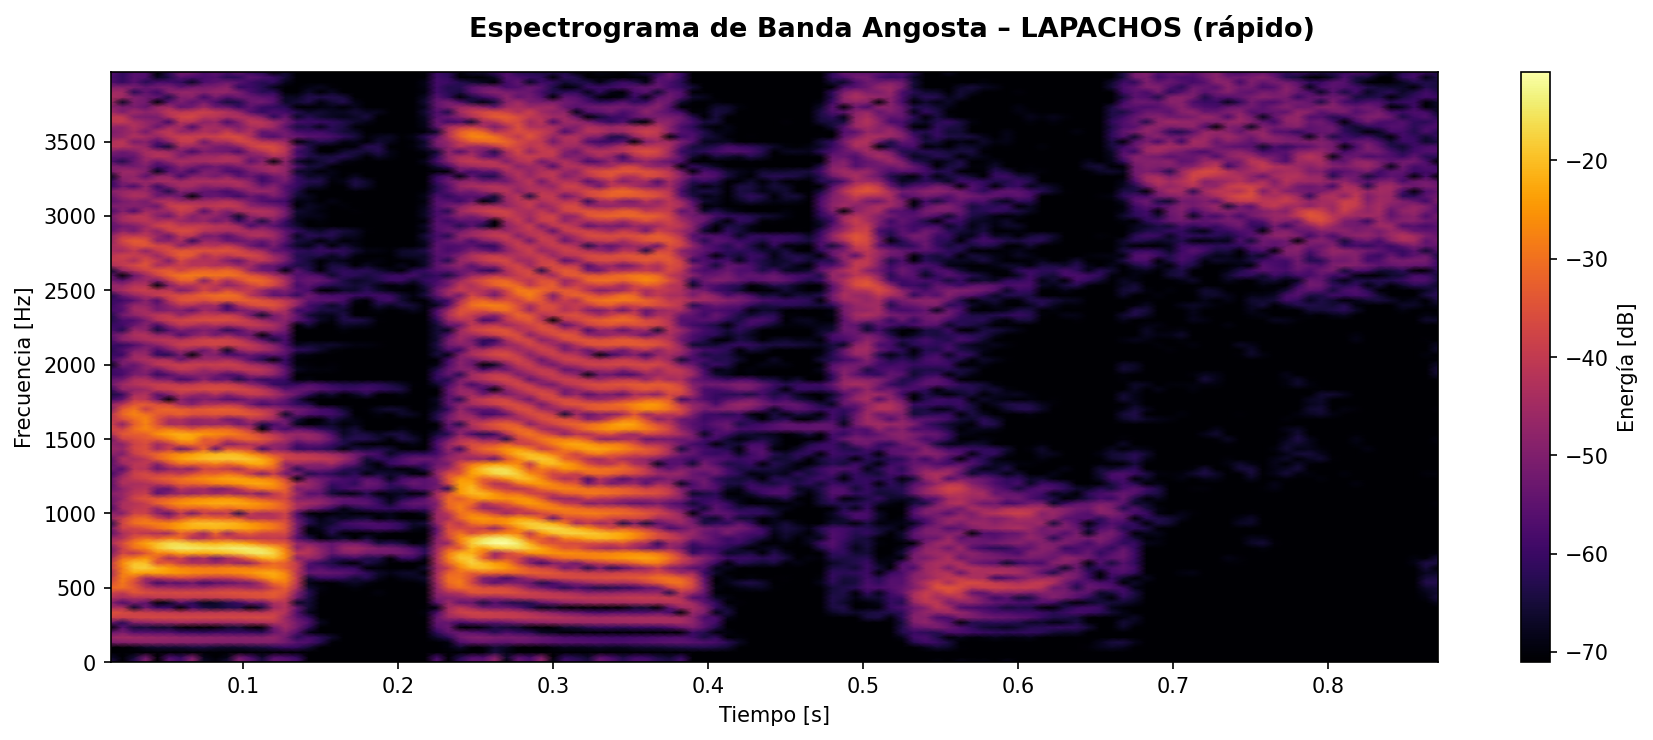
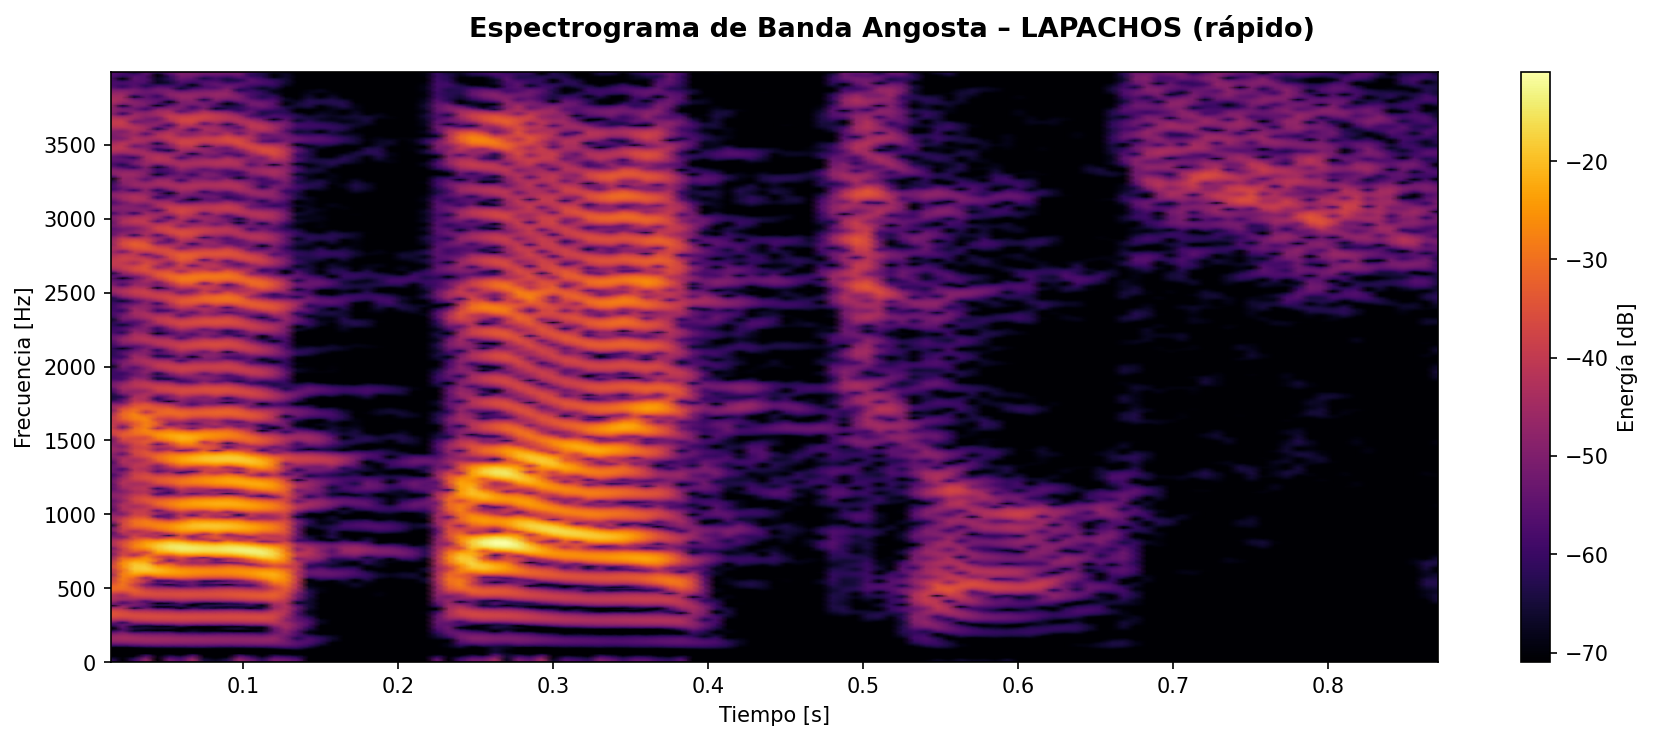
modifico espectrograma.py pero en un archivo nuevo, espectrograma_prueba.py. regenero las imagenes nuevas

diff --git a/TP2/Codigos/espectrograma_prueba.py b/TP2/Codigos/espectrograma_prueba.py
@@ -1,0 +1,154 @@
+import numpy as np
+import matplotlib.pyplot as plt
+from scipy.io import wavfile
+from scipy.signal import spectrogram
+
+# Parámetros según el tipo de espectrograma
+PARAMS = {
+    "angosta": {
+        "nperseg_ms": 30,
+        "overlap_pct": 0.75,
+        "nfft_factor": 4,          # NFFT = nfft_factor × nperseg  →  zero-padding
+        "titulo": "Espectrograma de Banda Angosta",
+        "freq_max": 4000,
+    },
+    "ancha": {
+        "nperseg_ms": 5,
+        "overlap_pct": 0.75,
+        "nfft_factor": 8,          # más factor en banda ancha porque nperseg es pequeño
+        "titulo": "Espectrograma de Banda Ancha",
+        "freq_max": 4000,
+    },
+}
+
+def plot_espectrograma(archivo, tipo, nombre, rango_t=None):
+    """
+    archivo  : path al .wav
+    tipo     : "angosta" o "ancha"
+    nombre   : string descriptivo de lo que se está analizando (ej: "Lapachos lento - vocal [a]")
+    rango_t  : None            → grafica todo el audio
+               [t_ini, t_fin]  → grafica solo ese intervalo (en segundos)
+    """
+    if tipo not in PARAMS:
+        raise ValueError(f"TIPO_ESPECTROGRAMA debe ser 'angosta' o 'ancha', no '{tipo}'")
+
+    p = PARAMS[tipo]
+
+    # Leer audio
+    fs, data = wavfile.read(archivo)
+
+    # Si es estéreo, tomar solo un canal
+    if data.ndim > 1:
+        data = data[:, 0]
+
+    # Normalizar a float [-1, 1]
+    data = data.astype(np.float64)
+    data /= np.max(np.abs(data))
+
+    # Recortar señal si se especifica rango_t
+    duracion_total = len(data) / fs
+    if rango_t is not None:
+        t_ini, t_fin = rango_t
+        if t_ini < 0 or t_fin > duracion_total or t_ini >= t_fin:
+            raise ValueError(f"rango_t={rango_t} inválido. El audio dura {duracion_total:.3f} s")
+        muestra_ini = int(t_ini * fs)
+        muestra_fin = int(t_fin * fs)
+        data = data[muestra_ini:muestra_fin]
+    else:
+        t_ini = 0
+
+    # Calcular parámetros de la ventana
+    nperseg = int(p["nperseg_ms"] * fs / 1000)
+    noverlap = int(nperseg * p["overlap_pct"])
+    nfft    = nperseg * p["nfft_factor"]   # zero-padding: NFFT > nperseg → mayor resolución en frecuencia
+
+    # Calcular espectrograma
+    f, t, Sxx = spectrogram(
+        data,
+        fs=fs,
+        window="hann",
+        nperseg=nperseg,
+        noverlap=noverlap,
+        nfft=nfft,
+        scaling="spectrum",
+    )
+
+    # Desplazar eje temporal al valor real dentro del audio original
+    t = t + t_ini
+
+    # Pasar a dB (escala logarítmica)
+    Sxx_dB = 10 * np.log10(Sxx + 1e-10)
+
+    # Filtrar hasta freq_max
+    freq_mask = f <= p["freq_max"]
+    f_plot = f[freq_mask]
+    Sxx_plot = Sxx_dB[freq_mask, :]
+
+    # Graficar
+    fig, ax = plt.subplots(figsize=(12, 5))
+    fig.suptitle(f"{p['titulo']} – {nombre}", fontsize=13, fontweight="bold")
+
+    # --- Espectrograma ---
+    im = ax.pcolormesh(
+        t, f_plot, Sxx_plot,
+        shading="gouraud",
+        cmap="inferno",
+        vmin=Sxx_plot.max() - 60,
+        vmax=Sxx_plot.max(),
+    )
+    ax.set_xlabel("Tiempo [s]")
+    ax.set_ylabel("Frecuencia [Hz]")
+
+    cbar = fig.colorbar(im, ax=ax)
+    cbar.set_label("Energía [dB]")
+
+    plt.tight_layout()
+    # plt.savefig(f"espectrograma_{tipo}_"+ nombre +".png", dpi=150, bbox_inches="tight")
+    # plt.savefig(f"espectrograma_{tipo}_"+ nombre + "[lento]" +".png", dpi=150, bbox_inches="tight")
+    plt.savefig(f"espectrograma_{tipo}_"+ nombre + "[rapido]" +".png", dpi=150, bbox_inches="tight")
+    plt.show()
+    print(f"[OK] Guardado: espectrograma_{tipo}_"+ nombre +".png")
+    print(f"     fs = {fs} Hz  |  nperseg = {nperseg} muestras "
+          f"({p['nperseg_ms']} ms)  |  noverlap = {noverlap}  |  nfft = {nfft} (×{p['nfft_factor']})")
+
+
+VOCALES_LENTA = [
+    {"nombre": "Vocal -a- (LA)",  "t_ini": 0.075, "t_fin": 0.317},
+    {"nombre": "Vocal -a- (PA)",  "t_ini": 0.503, "t_fin": 0.676},
+    {"nombre": "Vocal -o- (CHOS)", "t_ini": 0.940, "t_fin": 1.053},
+]
+ # Vocales de la señal RÁPIDA — ajustá los tiempos con visualizar_onda()
+VOCALES_RAPIDA = [
+    {"nombre": "Vocal -a- (LA)",  "t_ini": 0.070, "t_fin": 0.125},
+    {"nombre": "Vocal -a- (PA)",  "t_ini": 0.278, "t_fin": 0.353},
+    {"nombre": "Vocal -o- (CHOS)", "t_ini": 0.538, "t_fin": 0.604},
+]
+
+if __name__ == "__main__":
+    #plot_espectrograma("lapachos_lento.wav",  "angosta", "LAPACHOS (lento)")
+    #plot_espectrograma("lapachos_lento.wav",  "ancha",   "LAPACHOS (lento)")
+    #plot_espectrograma("lapachos_rapido.wav", "angosta", "LAPACHOS (rápido)")
+    #plot_espectrograma("lapachos_rapido.wav", "ancha",   "LAPACHOS (rápido)")
+
+    # Ejemplo con segmento y nombre descriptivo
+    # plot_espectrograma("lapachos_lento.wav", "angosta", "Vocal [a]", rango_t=[0.5, 1.2])
+    
+    # VOCALES DE LAPACHOS LENTO-------------------------
+    # plot_espectrograma("lapachos_lento.wav", "angosta", VOCALES_LENTA[0]["nombre"], rango_t=[VOCALES_LENTA[0]["t_ini"], VOCALES_LENTA[0]["t_fin"]])
+    # plot_espectrograma("lapachos_lento.wav", "ancha", VOCALES_LENTA[0]["nombre"], rango_t=[VOCALES_LENTA[0]["t_ini"], VOCALES_LENTA[0]["t_fin"]])
+
+    # plot_espectrograma("lapachos_lento.wav", "angosta", VOCALES_LENTA[1]["nombre"], rango_t=[VOCALES_LENTA[1]["t_ini"], VOCALES_LENTA[1]["t_fin"]])
+    # plot_espectrograma("lapachos_lento.wav", "ancha", VOCALES_LENTA[1]["nombre"], rango_t=[VOCALES_LENTA[1]["t_ini"], VOCALES_LENTA[1]["t_fin"]])
+
+    # plot_espectrograma("lapachos_lento.wav", "angosta", VOCALES_LENTA[2]["nombre"], rango_t=[VOCALES_LENTA[2]["t_ini"], VOCALES_LENTA[2]["t_fin"]])
+    # plot_espectrograma("lapachos_lento.wav", "ancha", VOCALES_LENTA[2]["nombre"], rango_t=[VOCALES_LENTA[2]["t_ini"], VOCALES_LENTA[2]["t_fin"]])
+
+    # VOCALES DE LAPACHOS RAPIDO-----------------------
+     plot_espectrograma("lapachos_rapido.wav", "angosta", VOCALES_RAPIDA[0]["nombre"], rango_t=[VOCALES_RAPIDA[0]["t_ini"], VOCALES_RAPIDA[0]["t_fin"]])
+    # plot_espectrograma("lapachos_rapido.wav", "ancha", VOCALES_RAPIDA[0]["nombre"], rango_t=[VOCALES_RAPIDA[0]["t_ini"], VOCALES_RAPIDA[0]["t_fin"]])
+
+     plot_espectrograma("lapachos_rapido.wav", "angosta", VOCALES_RAPIDA[1]["nombre"], rango_t=[VOCALES_RAPIDA[1]["t_ini"], VOCALES_RAPIDA[1]["t_fin"]])
+    # plot_espectrograma("lapachos_rapido.wav", "ancha", VOCALES_RAPIDA[1]["nombre"], rango_t=[VOCALES_RAPIDA[1]["t_ini"], VOCALES_RAPIDA[1]["t_fin"]])
+
+     plot_espectrograma("lapachos_rapido.wav", "angosta", VOCALES_RAPIDA[2]["nombre"], rango_t=[VOCALES_RAPIDA[2]["t_ini"], VOCALES_RAPIDA[2]["t_fin"]])
+    # plot_espectrograma("lapachos_rapido.wav", "ancha", VOCALES_RAPIDA[2]["nombre"], rango_t=[VOCALES_RAPIDA[2]["t_ini"], VOCALES_RAPIDA[2]["t_fin"]])
